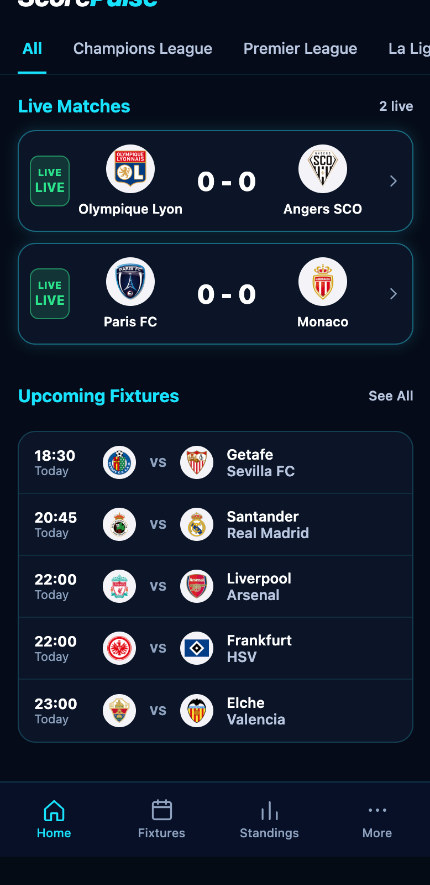
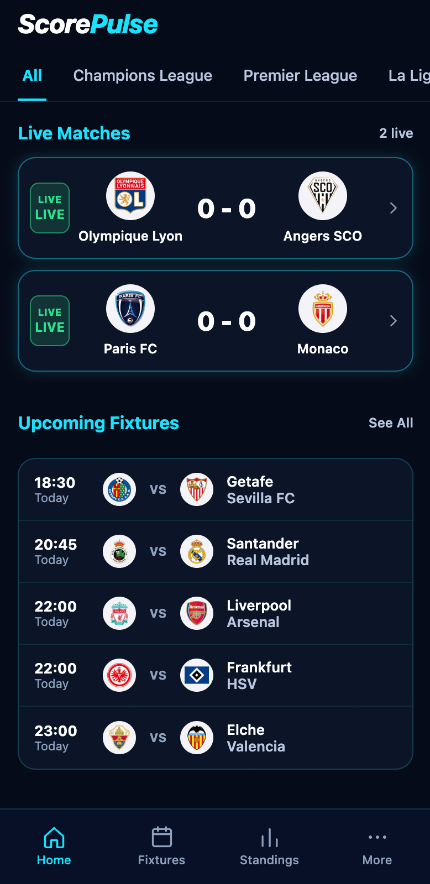
fix: showcase screenshots fit inside the phone frame (the crop had cut the top of three), alerts moved off the titles (#20)
Checked on desktop. Not on a real phone.

diff --git a/site/index.html b/site/index.html
@@ -33,7 +33,7 @@
           <div class="rings" aria-hidden="true"><i></i><i></i><i></i></div>
           <div class="phone hero-phone" ><div class="bezel"><div class="screen">
 <div class="status"><span class="clock">9:41</span><i class="island"></i><span class="sys"><b class="sig"></b><b class="batt"></b></span></div>
-<img src="/shots/home.png" width="430" height="885" alt="ScorePulse home screen with live matches and the day's fixtures" class="on" /></div></div></div>
+<img src="/shots/home.png" width="430" height="884" alt="ScorePulse home screen with live matches and the day's fixtures" class="on" /></div></div></div>
           <div class="toasts" aria-hidden="true">
             <div class="toast t1"><span class="ico goal"></span><div><p><b>ScorePulse</b><em>now</em></p><strong>Goal! 74'</strong><span>Your club goes 2-1 up</span></div></div>
             <div class="toast t2"><span class="ico card"></span><div><p><b>ScorePulse</b><em>now</em></p><strong>Yellow card, 41'</strong><span>A booking for your side</span></div></div>
@@ -59,21 +59,21 @@
               <p>Premier League, La Liga, Bundesliga, Ligue 1 and the Champions League. The top four are marked, and your own clubs are lit up so you find them fast.</p>
               <div class="phone mini" ><div class="bezel"><div class="screen">
 <div class="status"><span class="clock">9:41</span><i class="island"></i><span class="sys"><b class="sig"></b><b class="batt"></b></span></div>
-<img src="/shots/standings.png" width="430" height="885" alt="Premier League table with the top four marked" class="on" loading="lazy"/></div></div></div>
+<img src="/shots/standings.png" width="430" height="884" alt="Premier League table with the top four marked" class="on" loading="lazy"/></div></div></div>
             </article>
             <article class="step" data-shot="team">
               <h2>A whole season, one tap away</h2>
               <p>Open any club to see every result and every fixture still to come, month by month. Tap a match for the timeline, the line-ups and the stats.</p>
               <div class="phone mini" ><div class="bezel"><div class="screen">
 <div class="status"><span class="clock">9:41</span><i class="island"></i><span class="sys"><b class="sig"></b><b class="batt"></b></span></div>
-<img src="/shots/team.png" width="430" height="885" alt="A club's season listed month by month, results and upcoming fixtures" class="on" loading="lazy"/></div></div></div>
+<img src="/shots/team.png" width="430" height="884" alt="A club's season listed month by month, results and upcoming fixtures" class="on" loading="lazy"/></div></div></div>
             </article>
           </div>
           <div class="sticky">
             <div class="rings soft-rings" aria-hidden="true"><i></i><i></i></div>
             <div class="phone big" data-stack><div class="bezel"><div class="screen">
 <div class="status"><span class="clock">9:41</span><i class="island"></i><span class="sys"><b class="sig"></b><b class="batt"></b></span></div>
-<img src="/shots/alerts.png" width="430" height="828" alt="Notification settings with a switch for goals, cards, substitutions, match start and full time" class="on" /><img src="/shots/standings.png" width="430" height="885" alt="Premier League table with the top four marked" class="" loading="lazy"/><img src="/shots/team.png" width="430" height="885" alt="A club's season listed month by month, results and upcoming fixtures" class="" loading="lazy"/></div></div></div>
+<img src="/shots/alerts.png" width="430" height="828" alt="Notification settings with a switch for goals, cards, substitutions, match start and full time" class="on" /><img src="/shots/standings.png" width="430" height="884" alt="Premier League table with the top four marked" class="" loading="lazy"/><img src="/shots/team.png" width="430" height="884" alt="A club's season listed month by month, results and upcoming fixtures" class="" loading="lazy"/></div></div></div>
           </div>
         </div>
       </section>

diff --git a/site/src/style.css b/site/src/style.css
@@ -110,9 +110,9 @@ h2 { font-size: clamp(2.2rem, 5vw, 3.6rem); margin-bottom: 18px; }
 .ico.goal { background: var(--amber); } .ico.goal::after { box-shadow: inset 0 0 0 3px var(--amber), inset 0 0 0 5px var(--night); background: transparent; }
 .ico.card { background: var(--amber); } .ico.card::after { border-radius: 2px; width: 11px; height: 16px; background: var(--night); }
 .ico.whistle::after { width: 15px; height: 4px; border-radius: 2px; background: var(--night); }
-.t1 { left: -6%; top: 14%; animation-delay: 1.8s; }
-.t2 { right: -8%; top: 44%; animation-delay: 6.8s; }
-.t3 { left: -4%; bottom: 14%; animation-delay: 11.8s; }
+.t1 { left: -20%; top: 30%; animation-delay: 1.8s; }
+.t2 { right: -20%; top: 54%; animation-delay: 6.8s; }
+.t3 { left: -16%; bottom: 22%; animation-delay: 11.8s; }
 @keyframes toast {
   0% { opacity: 0; transform: translateY(-22px) scale(0.94); }
   3%, 28% { opacity: 1; transform: none; }
